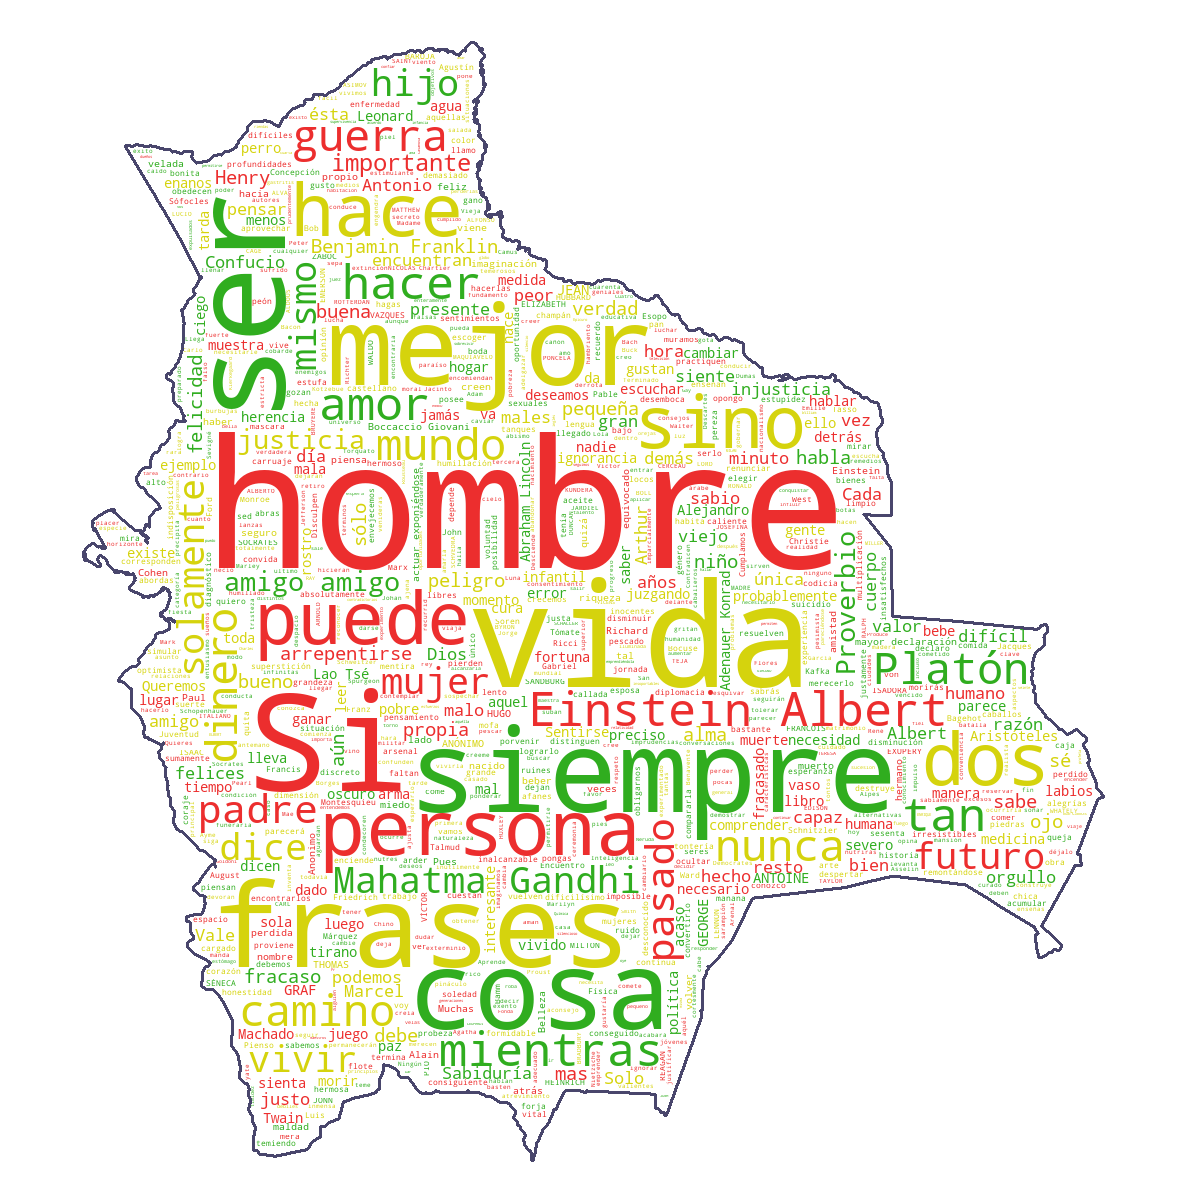
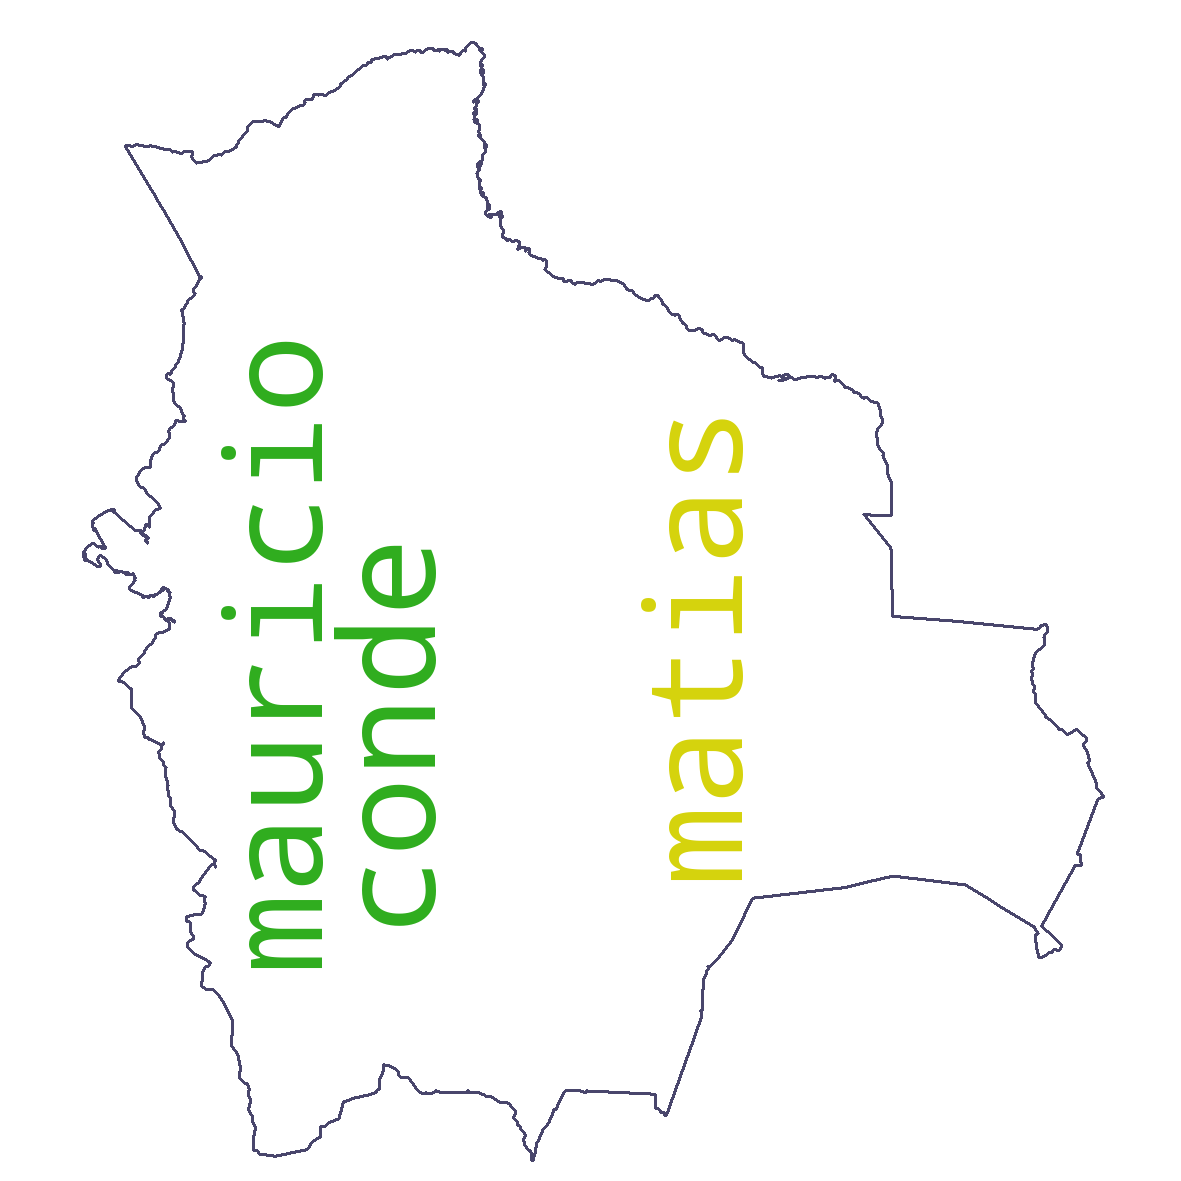
ya casi

Changed region(s): [[0.0914, 0.0305, 0.9145, 0.9754]]

diff --git a/boliviancloud.py b/boliviancloud.py
@@ -11,7 +11,8 @@ from stop_words import get_stop_words
 import json
 
 colors = []
-base_path = "/home/cr0wg4n/Escritorio/Work/sudamerica-wordcloud"
+#base_path = "/home/cr0wg4n/Escritorio/Work/sudamerica-wordcloud"
+base_path = "."
 
 def grey_color_func(word, font_size, position,orientation,random_state=None, **kwargs):
     global colors  
@@ -23,14 +24,17 @@ def grey_color_func(word, font_size, position,orientation,random_state=None, **k
     return(colors[np.random.randint(0,len(colors))])
 
 def get_word_image(text,stopwords,country):
-    text = open(path.join(d, 'frases.txt'),encoding="utf-8").read()
-    mask = np.array(Image.open(path.join(d, base_path+"/sudamerica/"+".png")))
-    stopwords = set(stop_words)
-    wc = WordCloud(background_color="white", max_words=2000, mask=mask,
-                stopwords=stopwords, contour_width=3, contour_color='rgb(73, 70, 108)')
-    wc.generate(text)
-    wc.recolor(color_func = grey_color_func)
-    wc.to_file(path.join(d, base_path+"/sudamerica_word/"+".png"))
+    try:
+        mask = np.array(Image.open(path.join(d, base_path+"/sudamerica/"+country+"_mask.png")))
+        stopwords = set(stop_words)
+        wc = WordCloud(background_color="white", max_words=2000, mask=mask,
+                    stopwords=stopwords, contour_width=3, contour_color='rgb(73, 70, 108)')
+        wc.generate(text)
+        wc.recolor(color_func = grey_color_func)
+        wc.to_file(path.join(d, base_path+"/sudamerica_word/"+country+"_words.png"))
+    except:
+        pass
+    
 
 
 MONGODB_HOST = 'localhost'
@@ -79,4 +83,4 @@ collection = db["feedbacks"]
 for document in collection.find():
     print (document)
 
-
+get_word_image('mauricio matias conde',stop_words,'bolivia')
